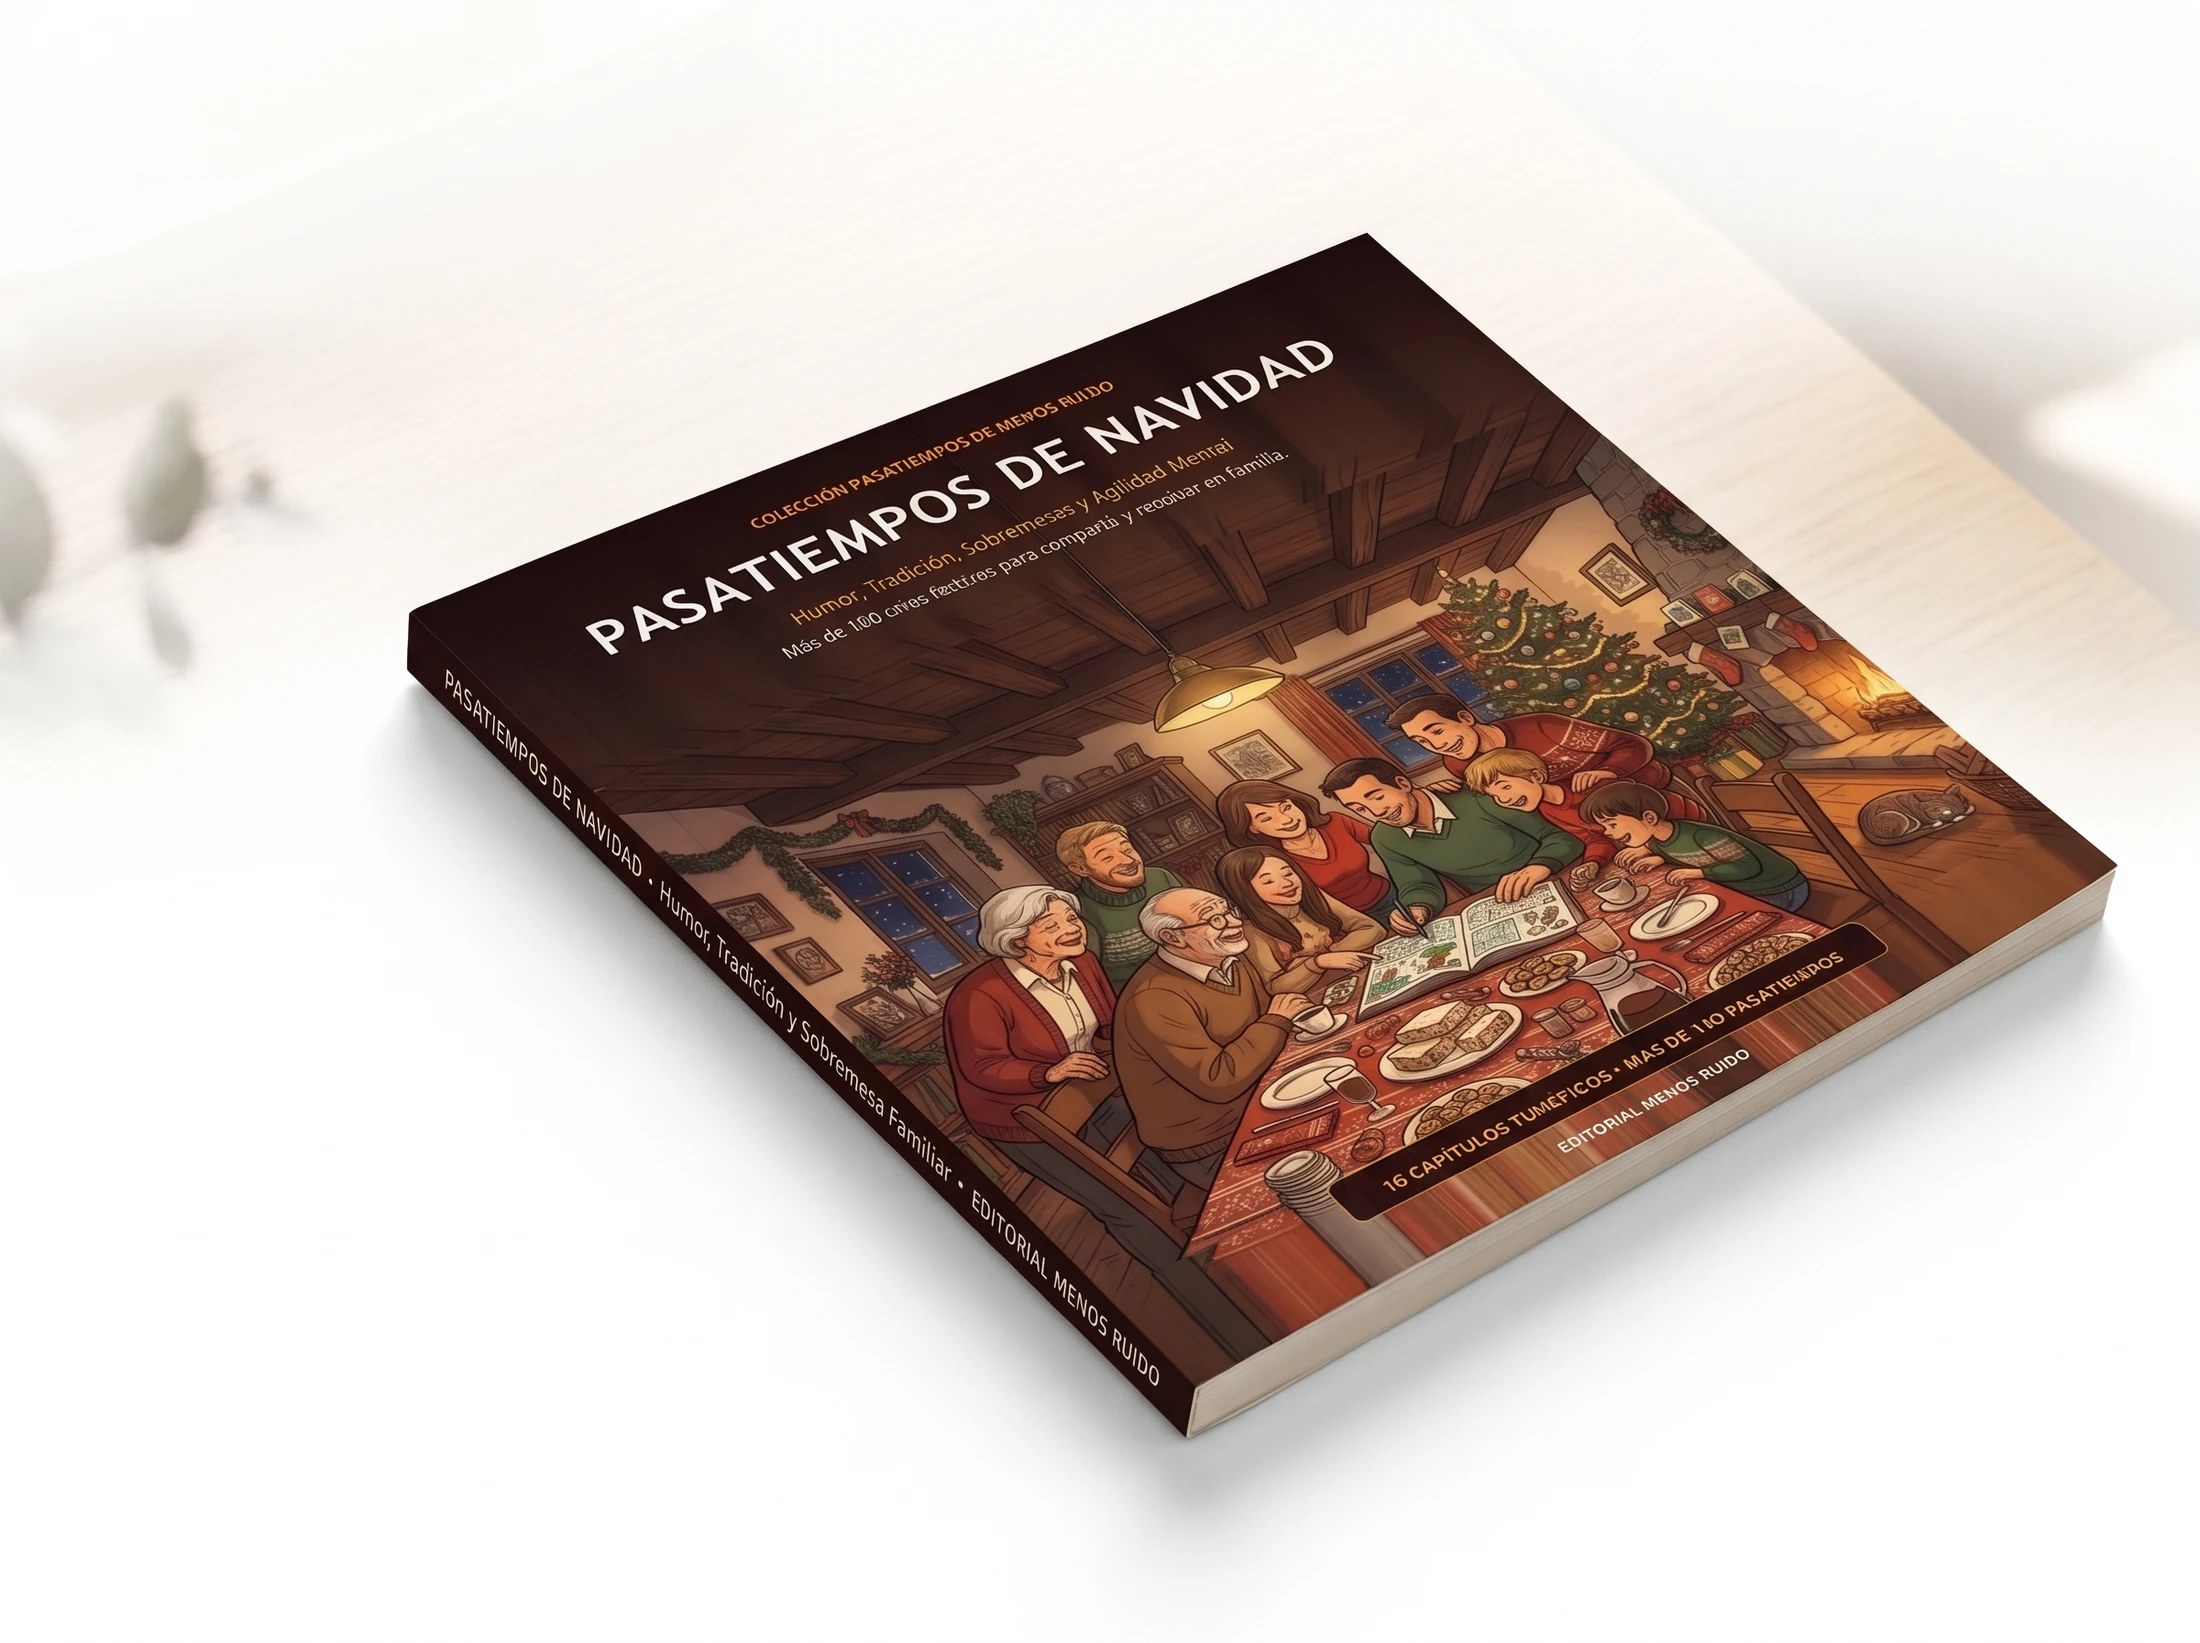
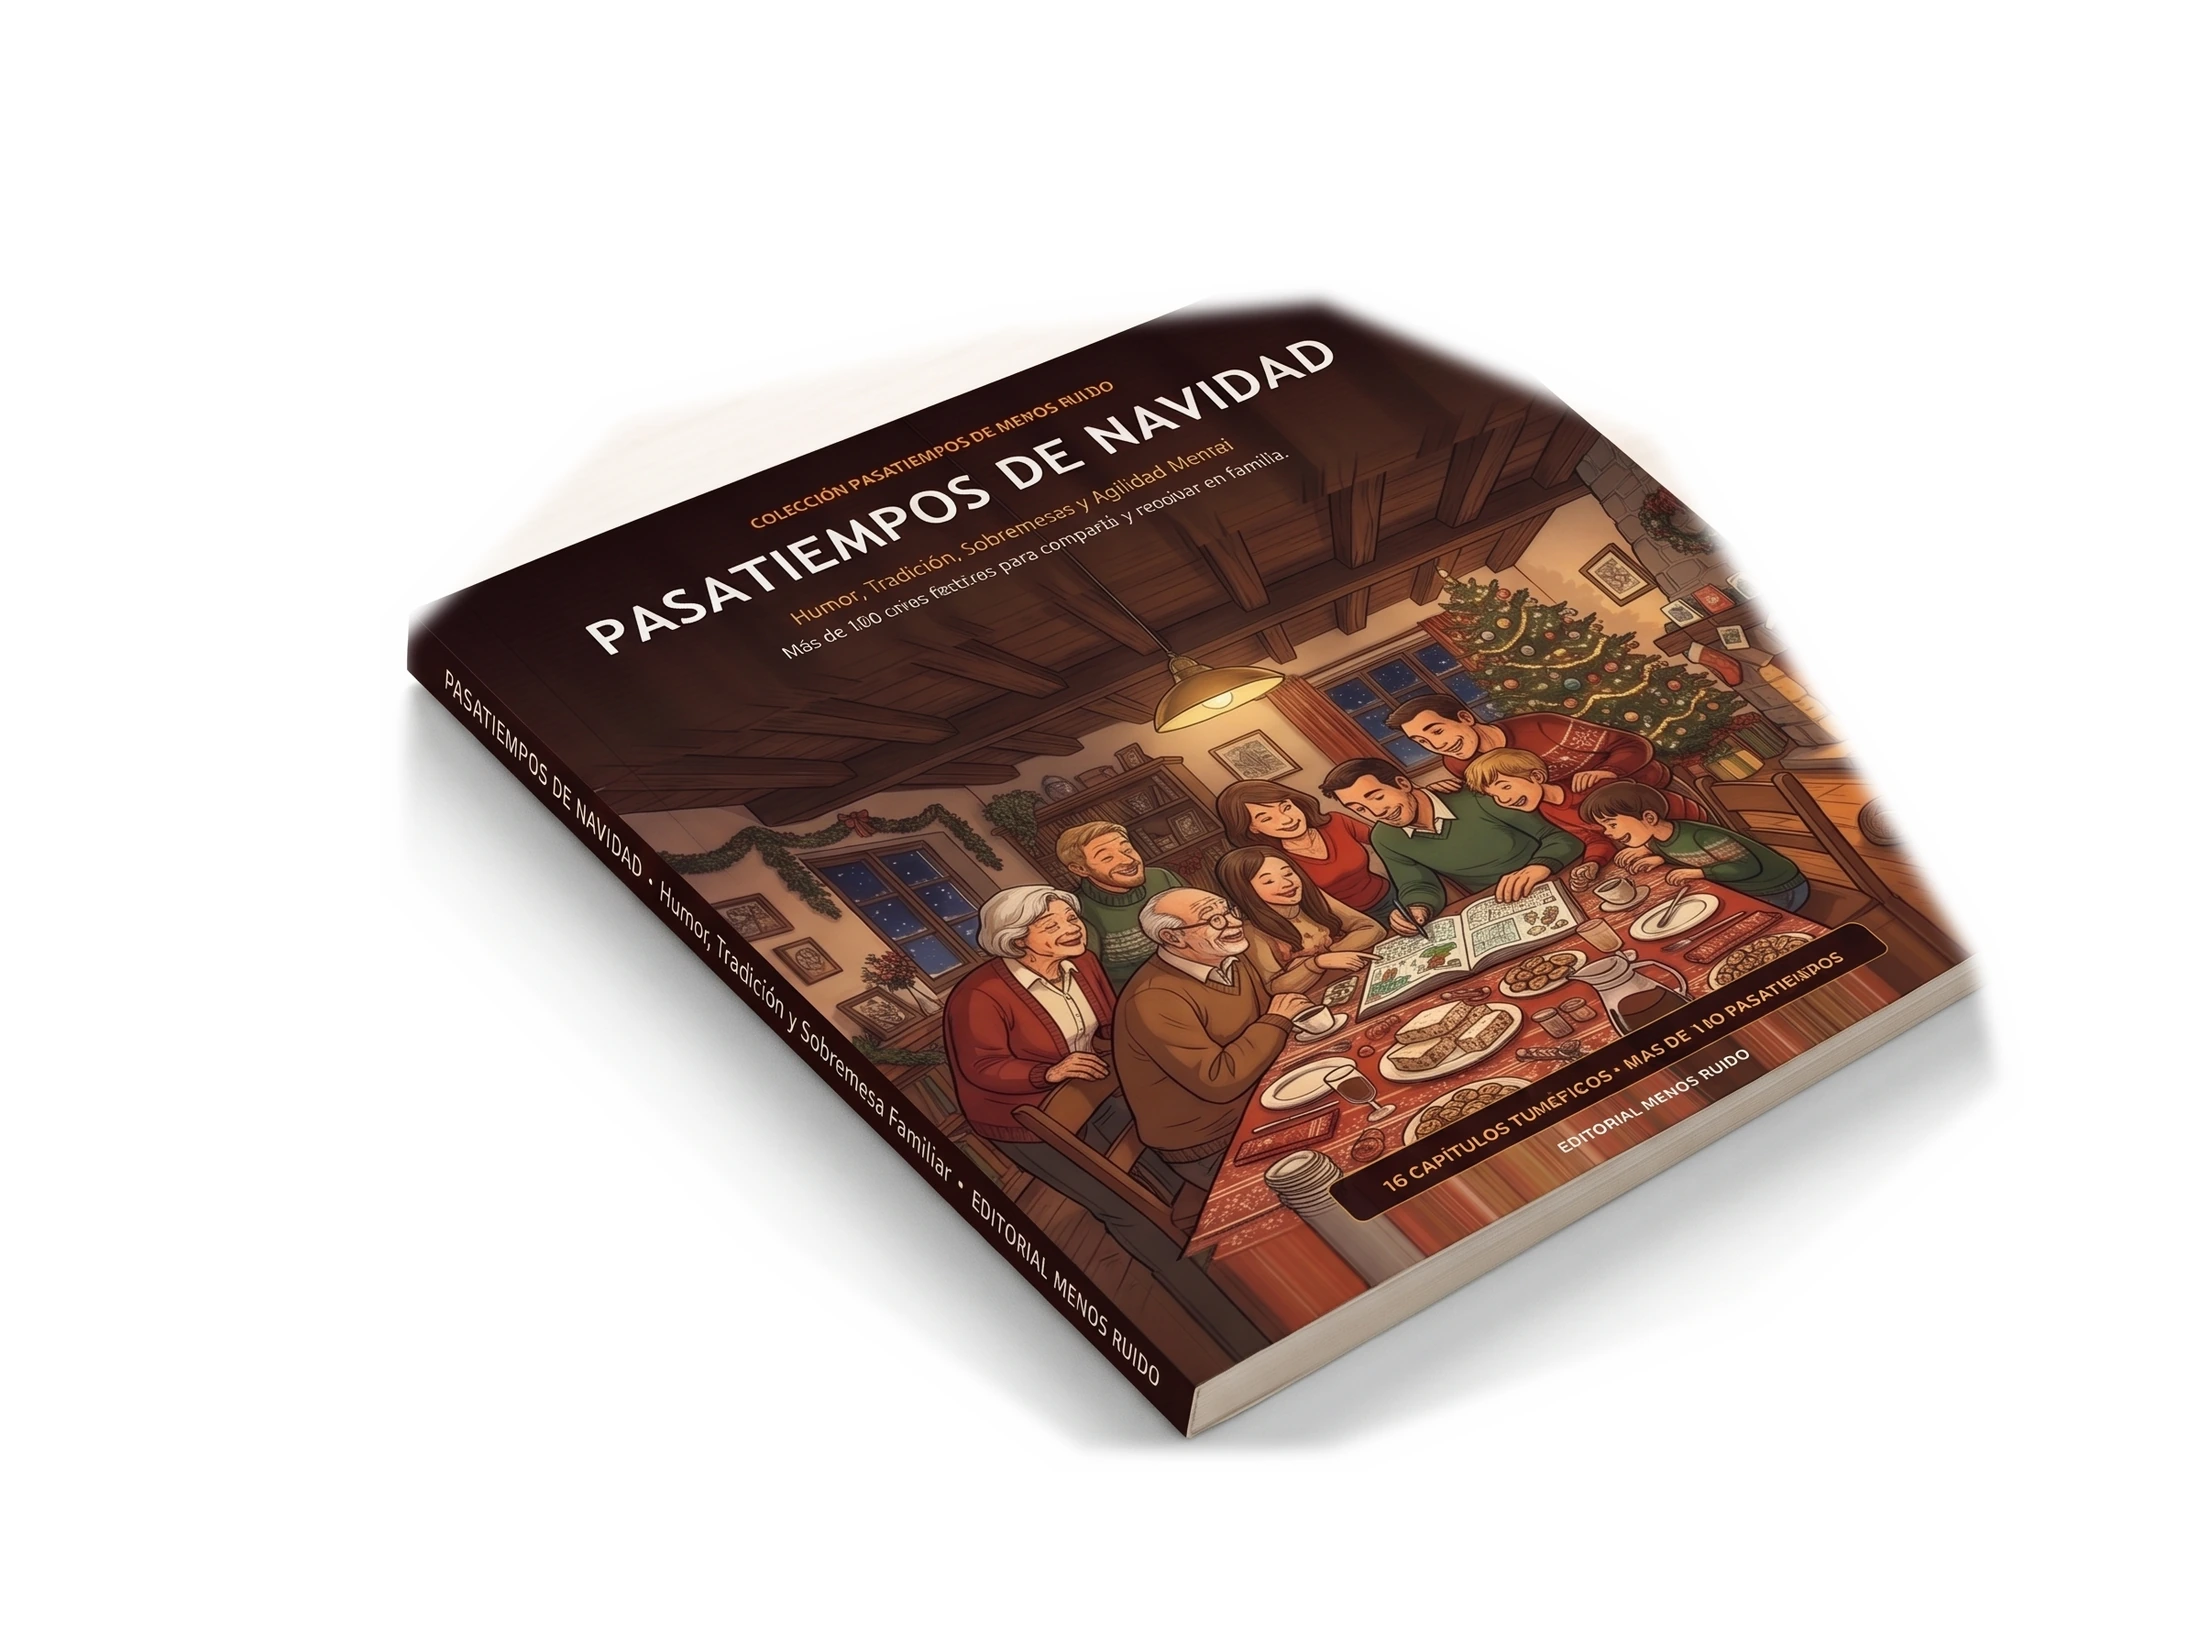
fix(web): corregir escala afirmaciones, fotos 3D planificadores, fondo blanco puro en pasatiempos y boton hojear 3D

diff --git a/cuadernos.html b/cuadernos.html
@@ -152,7 +152,7 @@
                                         <!-- 1. Afirmaciones Diarias -->
                     <div class="product-card fade-in-up">
                         <div class="product-image">
-                            <img src="/cover_afirmaciones.webp?v=7" alt="Afirmaciones Diarias - Cuaderno de enfoque y escritura" loading="lazy" style="cursor: zoom-in;">
+                            <img src="/images/mockup-afirmaciones-blanco.webp" alt="Afirmaciones Diarias - Cuaderno de enfoque y escritura" loading="lazy" style="cursor: zoom-in;">
                         </div>
                         <div class="product-info">
                             <span style="font-size: 0.75rem; font-weight: 700; color: var(--color-accent); text-transform: uppercase; letter-spacing: 1px; margin-bottom: 0.4rem; display: block;">Método Diario en Papel</span>

diff --git a/afirmaciones-diarias.html b/afirmaciones-diarias.html
@@ -790,6 +790,17 @@
                 document.body.style.overflow = 'hidden';
             }
         }
+
+        function closeBookModal() {
+            const modal = document.getElementById('book-modal');
+            const frame = document.getElementById('book-modal-frame');
+            if (modal) {
+                modal.classList.remove('is-open');
+                modal.setAttribute('aria-hidden', 'true');
+                document.body.style.overflow = '';
+            }
+            if (frame) {
+                frame.src = 'about:blank';
             }
         }
 

diff --git a/deja-de-darle-mil-vueltas.html b/deja-de-darle-mil-vueltas.html
@@ -815,6 +815,17 @@
                 document.body.style.overflow = 'hidden';
             }
         }
+
+        function closeBookModal() {
+            const modal = document.getElementById('book-modal');
+            const frame = document.getElementById('book-modal-frame');
+            if (modal) {
+                modal.classList.remove('is-open');
+                modal.setAttribute('aria-hidden', 'true');
+                document.body.style.overflow = '';
+            }
+            if (frame) {
+                frame.src = 'about:blank';
             }
         }
 

diff --git a/habla-claro.html b/habla-claro.html
@@ -759,6 +759,17 @@
                 document.body.style.overflow = 'hidden';
             }
         }
+
+        function closeBookModal() {
+            const modal = document.getElementById('book-modal');
+            const frame = document.getElementById('book-modal-frame');
+            if (modal) {
+                modal.classList.remove('is-open');
+                modal.setAttribute('aria-hidden', 'true');
+                document.body.style.overflow = '';
+            }
+            if (frame) {
+                frame.src = 'about:blank';
             }
         }
 

diff --git a/planificador-180-dias.html b/planificador-180-dias.html
@@ -831,6 +831,17 @@
                 document.body.style.overflow = 'hidden';
             }
         }
+
+        function closeBookModal() {
+            const modal = document.getElementById('book-modal');
+            const frame = document.getElementById('book-modal-frame');
+            if (modal) {
+                modal.classList.remove('is-open');
+                modal.setAttribute('aria-hidden', 'true');
+                document.body.style.overflow = '';
+            }
+            if (frame) {
+                frame.src = 'about:blank';
             }
         }
 

diff --git a/planificador-90-dias.html b/planificador-90-dias.html
@@ -864,6 +864,17 @@
                 document.body.style.overflow = 'hidden';
             }
         }
+
+        function closeBookModal() {
+            const modal = document.getElementById('book-modal');
+            const frame = document.getElementById('book-modal-frame');
+            if (modal) {
+                modal.classList.remove('is-open');
+                modal.setAttribute('aria-hidden', 'true');
+                document.body.style.overflow = '';
+            }
+            if (frame) {
+                frame.src = 'about:blank';
             }
         }
 

diff --git a/planificador-semanal-reversible.html b/planificador-semanal-reversible.html
@@ -833,6 +833,17 @@
                 document.body.style.overflow = 'hidden';
             }
         }
+
+        function closeBookModal() {
+            const modal = document.getElementById('book-modal');
+            const frame = document.getElementById('book-modal-frame');
+            if (modal) {
+                modal.classList.remove('is-open');
+                modal.setAttribute('aria-hidden', 'true');
+                document.body.style.overflow = '';
+            }
+            if (frame) {
+                frame.src = 'about:blank';
             }
         }
 

diff --git a/planificador-semanal-simple.html b/planificador-semanal-simple.html
@@ -833,6 +833,17 @@
                 document.body.style.overflow = 'hidden';
             }
         }
+
+        function closeBookModal() {
+            const modal = document.getElementById('book-modal');
+            const frame = document.getElementById('book-modal-frame');
+            if (modal) {
+                modal.classList.remove('is-open');
+                modal.setAttribute('aria-hidden', 'true');
+                document.body.style.overflow = '';
+            }
+            if (frame) {
+                frame.src = 'about:blank';
             }
         }
 
